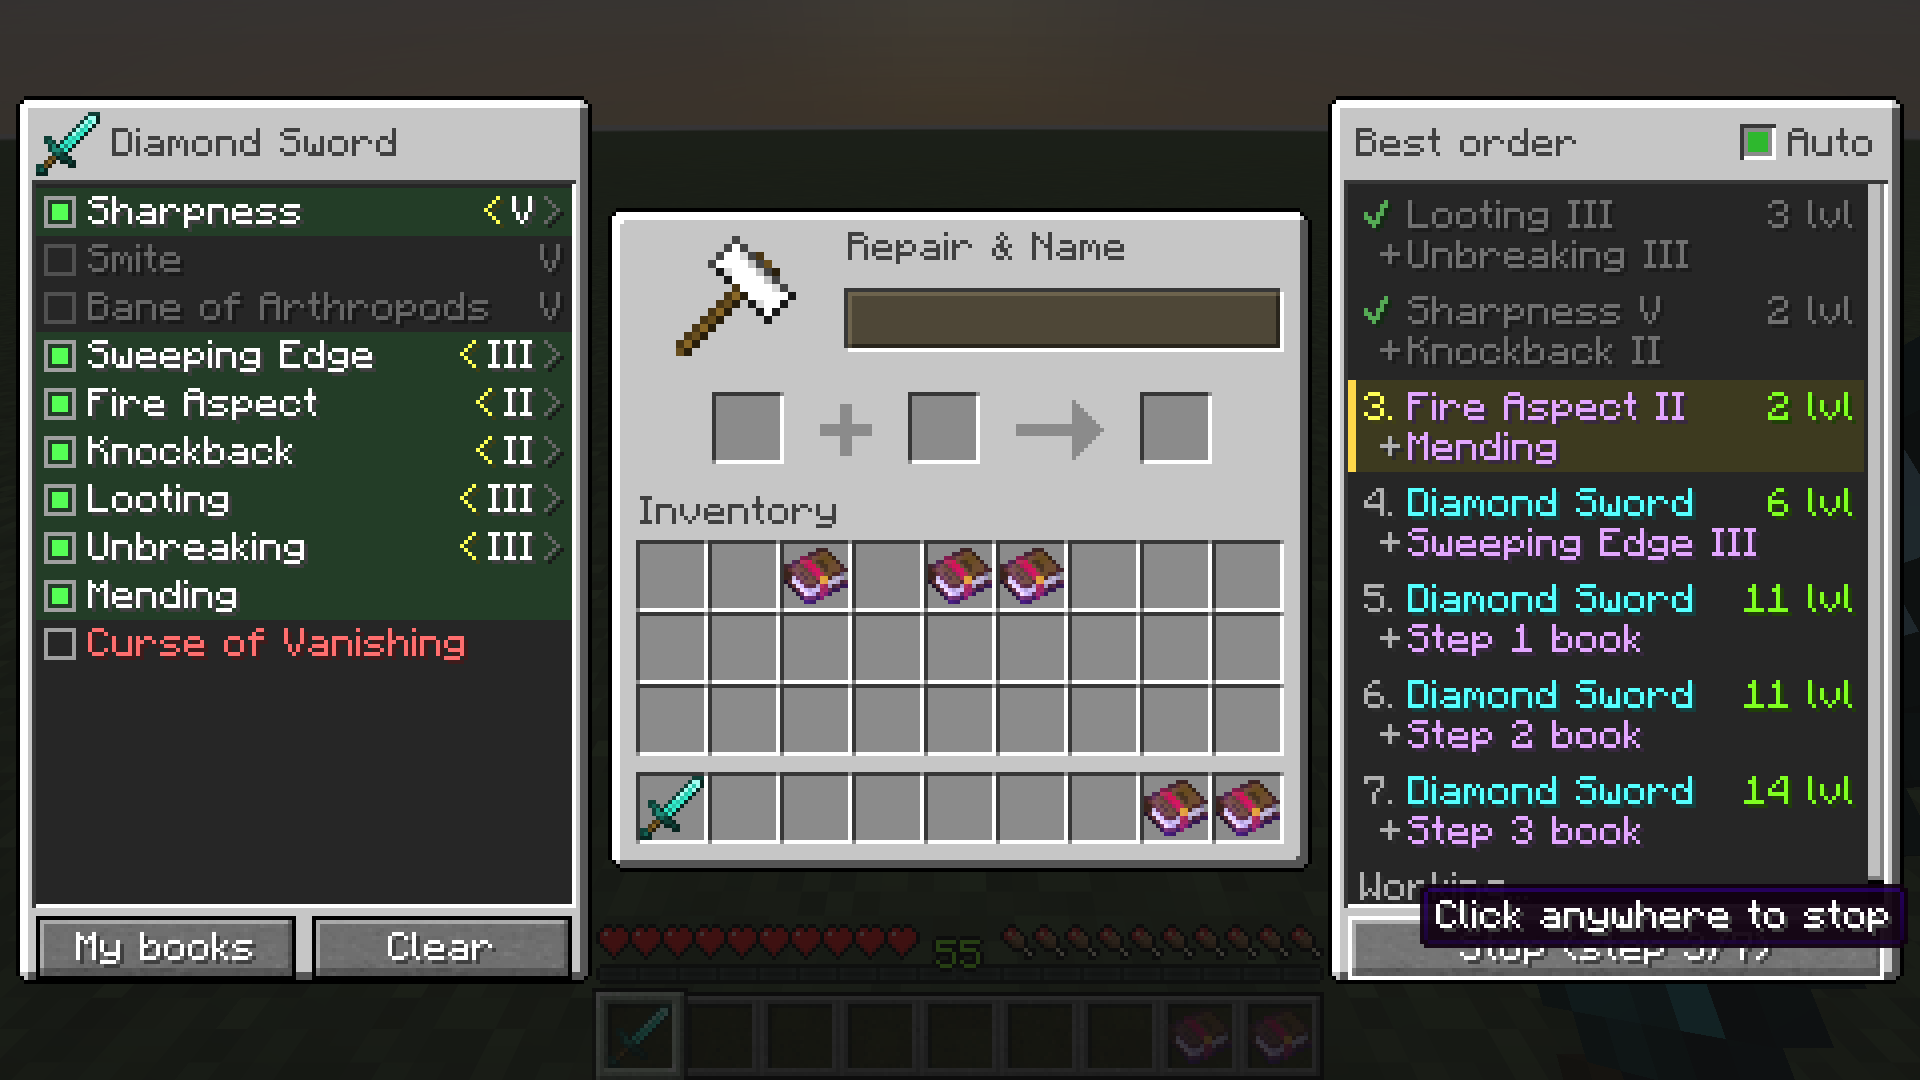
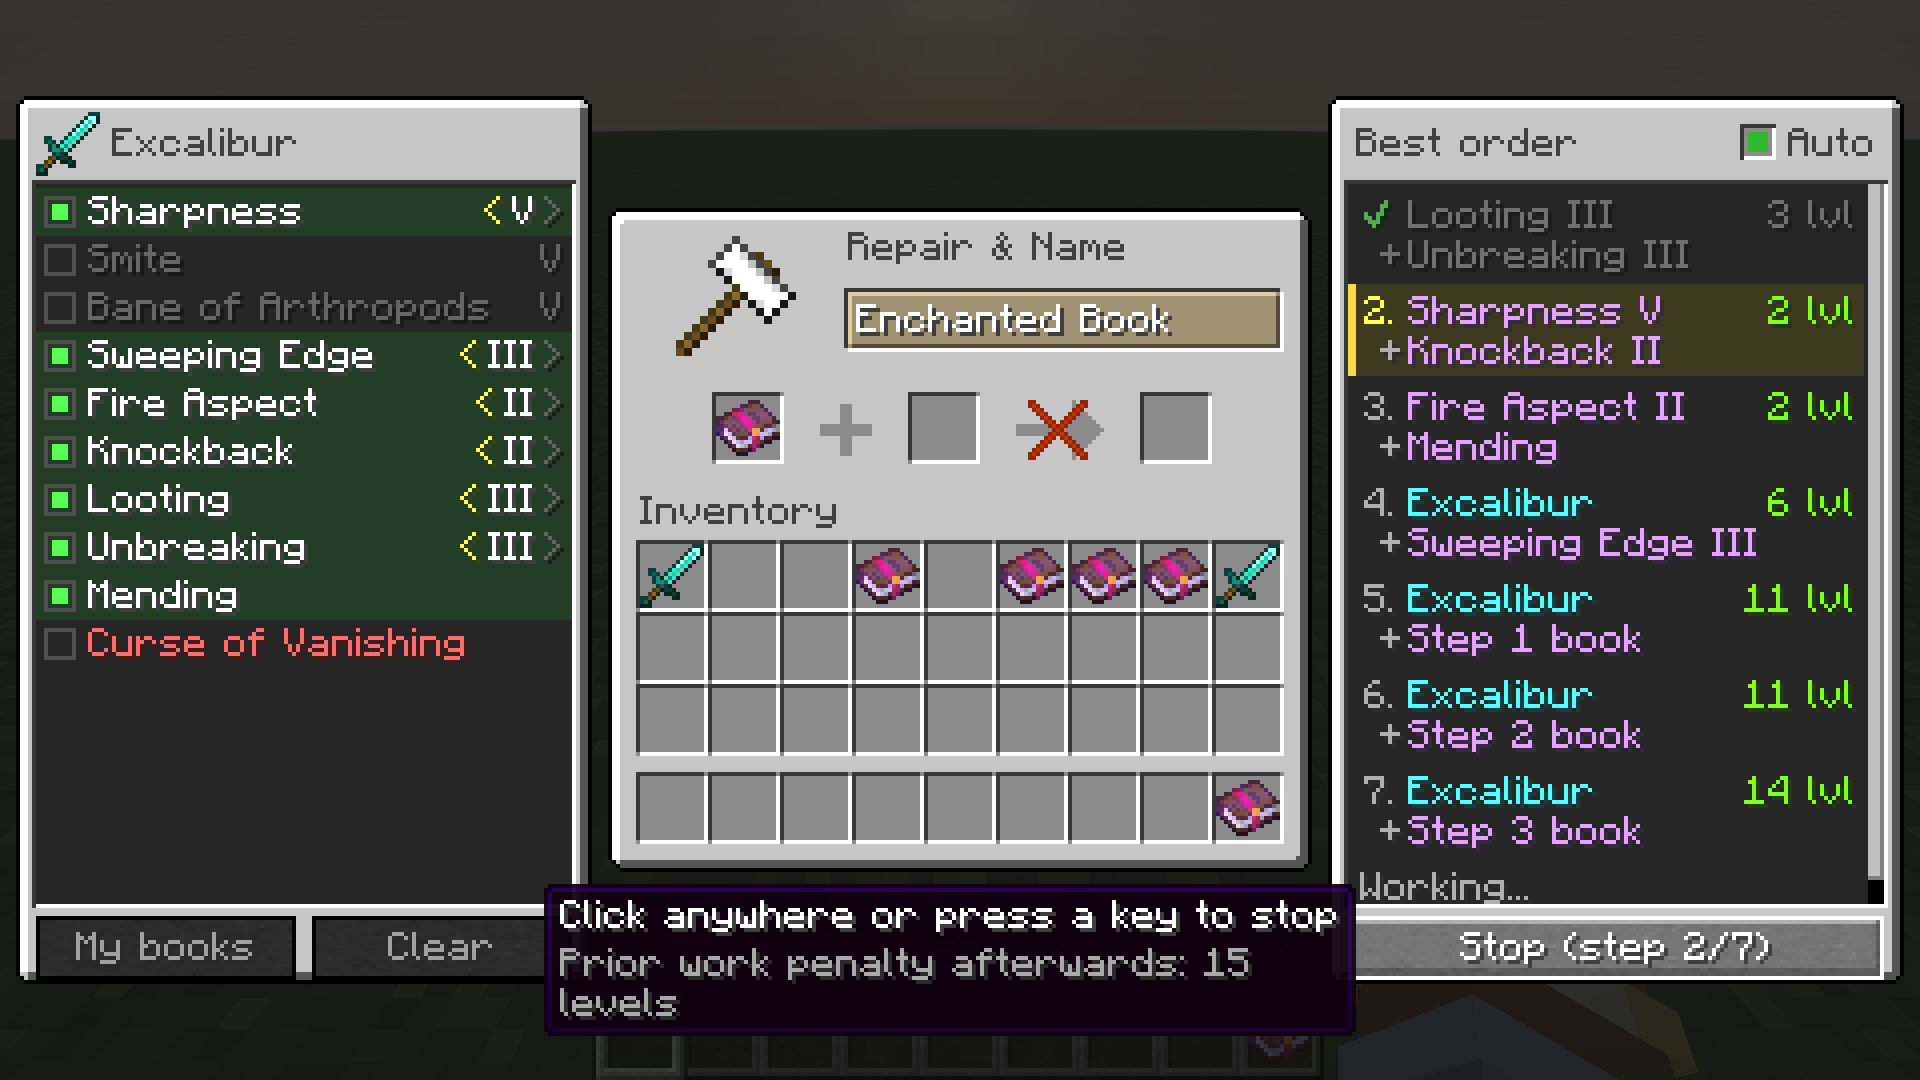
Update the Auto screenshot and drop the temporary screenshot dump
Claude-Session: https://claude.ai/code/session_013RyHvZKmDfbifNrk96ypnB

diff --git a/README.md b/README.md
@@ -28,7 +28,7 @@ The order puts all the book-on-book steps first, so once the item goes in the fi
 
 Tick the **Auto** box in the top right corner of the order panel. An **Apply** button shows up under the steps.
 
-![Auto mode halfway through: two steps done, step 3 in progress](docs/auto.png)
+![Auto mode at work: step 1 done, step 2 in progress](docs/auto.png)
 
 1. Put the item in the anvil and tick your enchantments (**My books** is the quickest way).
 2. Click **Apply**. The mod shift-clicks the books and the item into the anvil and takes each result out, step by step, just like you would.
